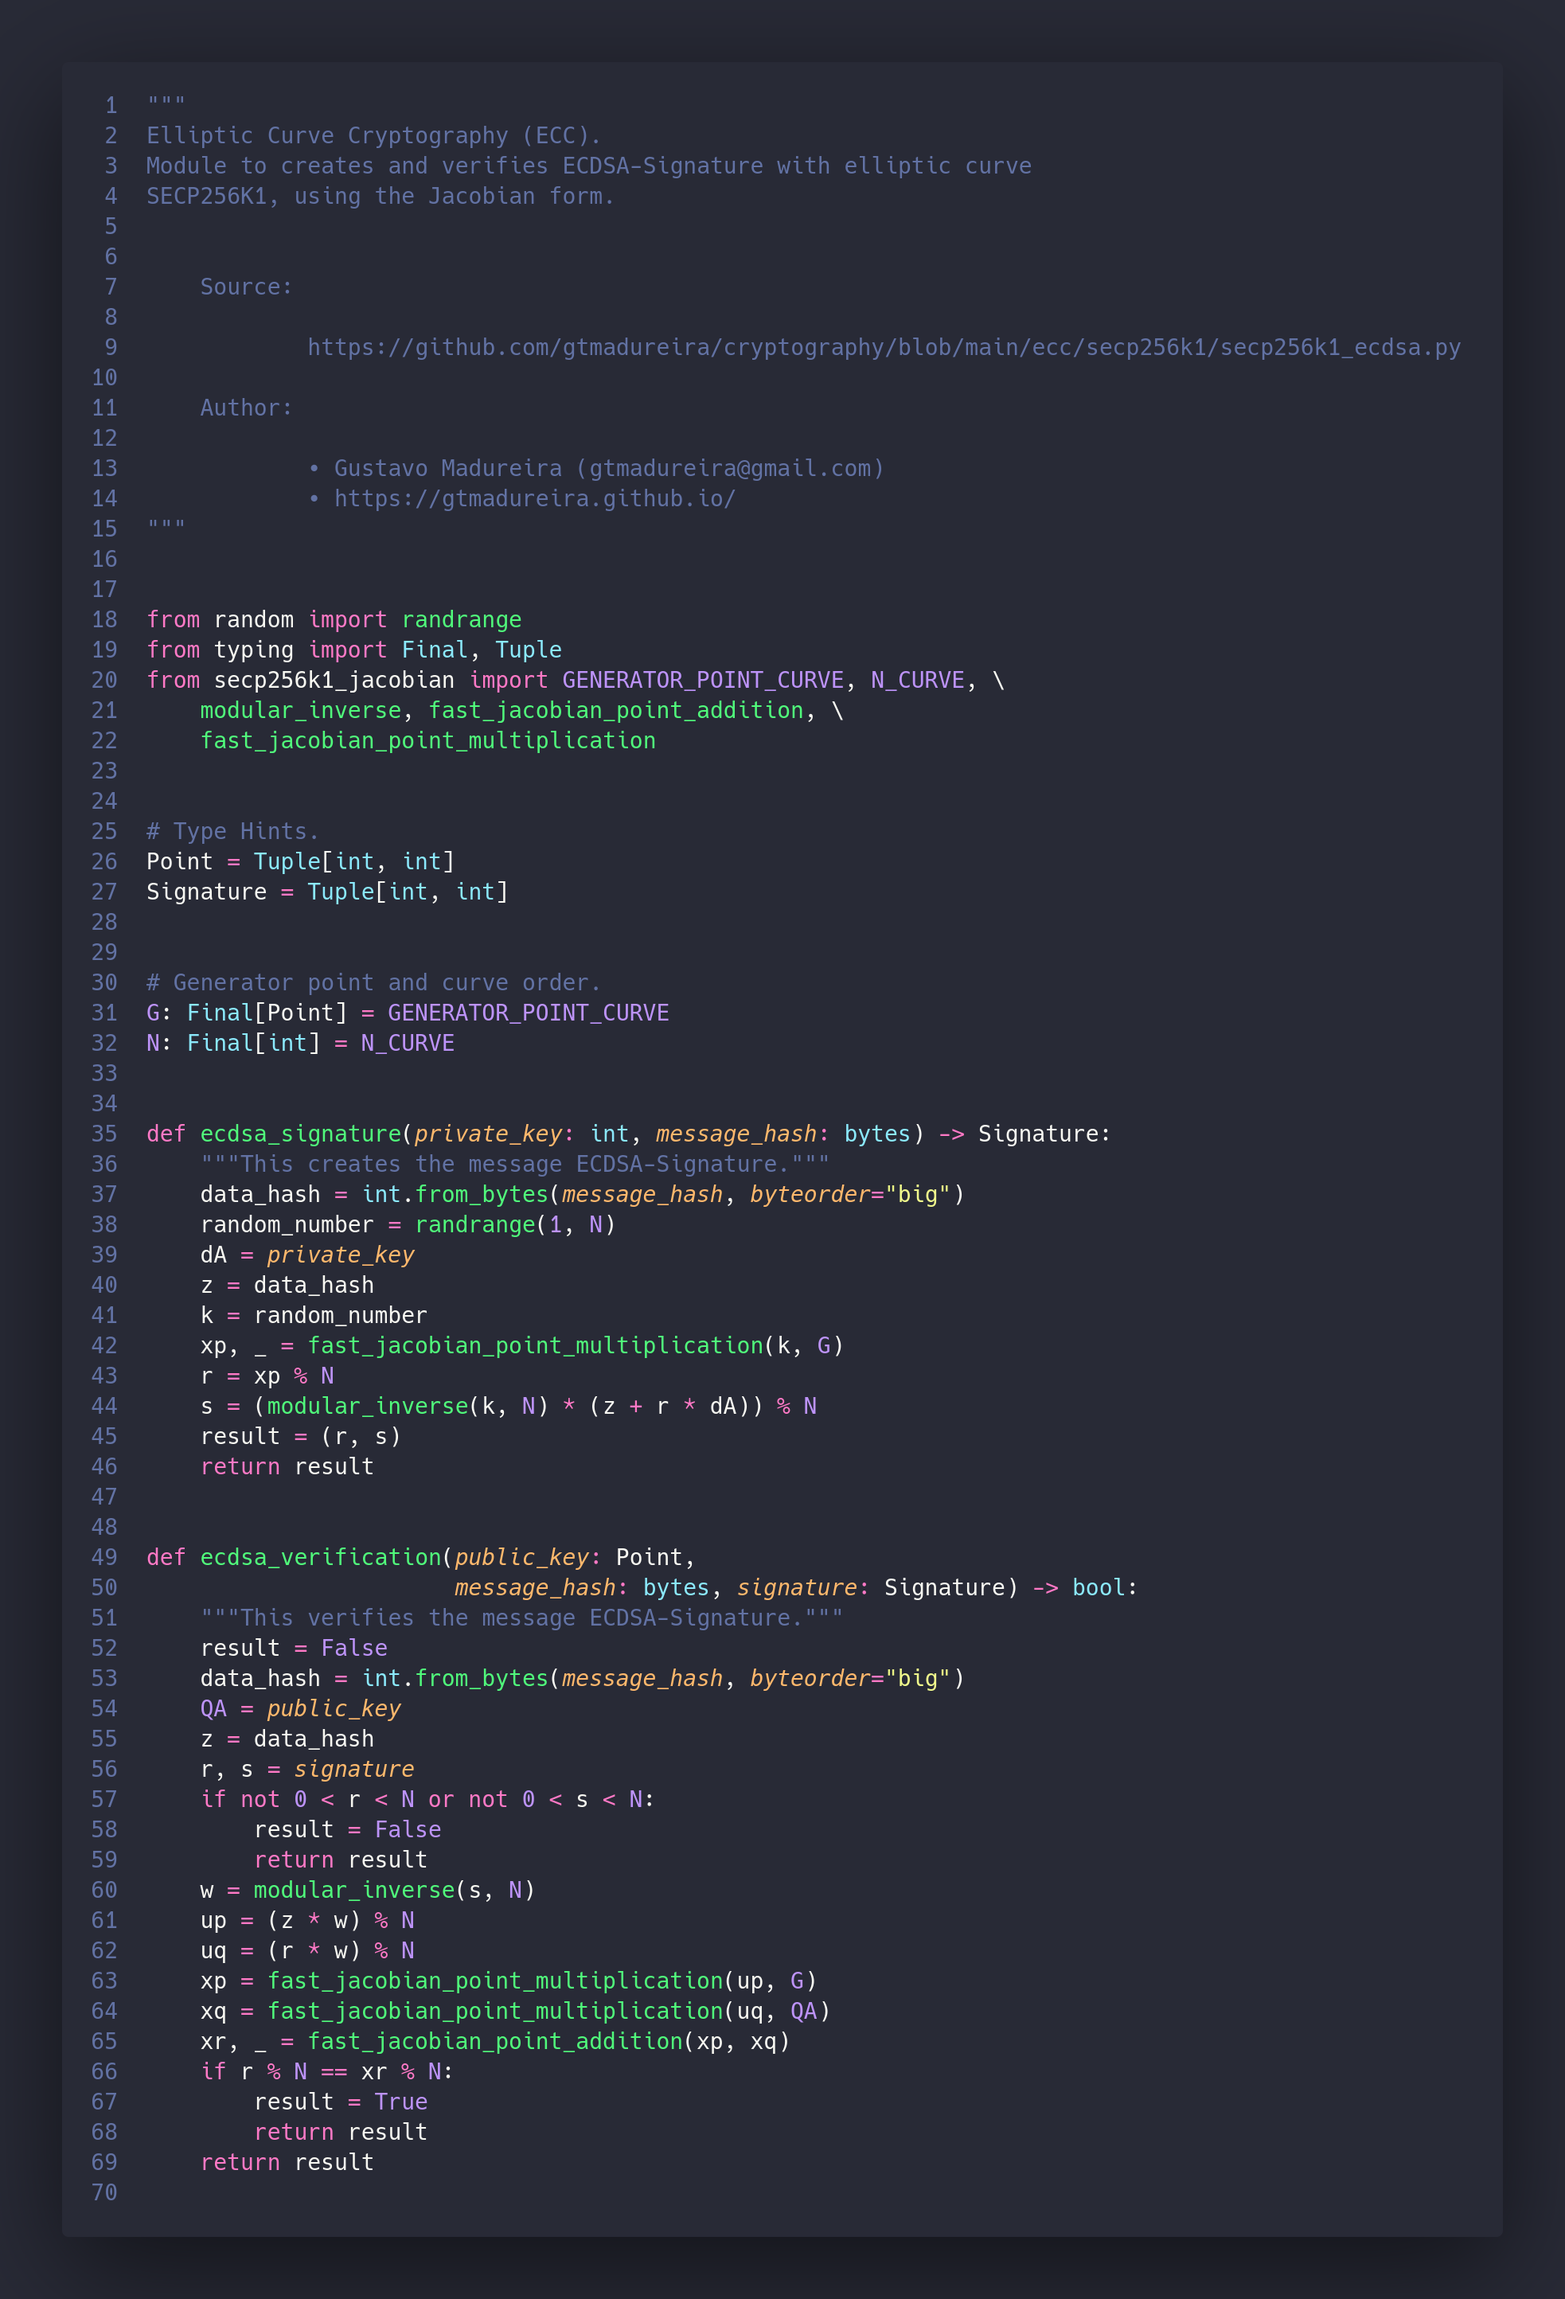
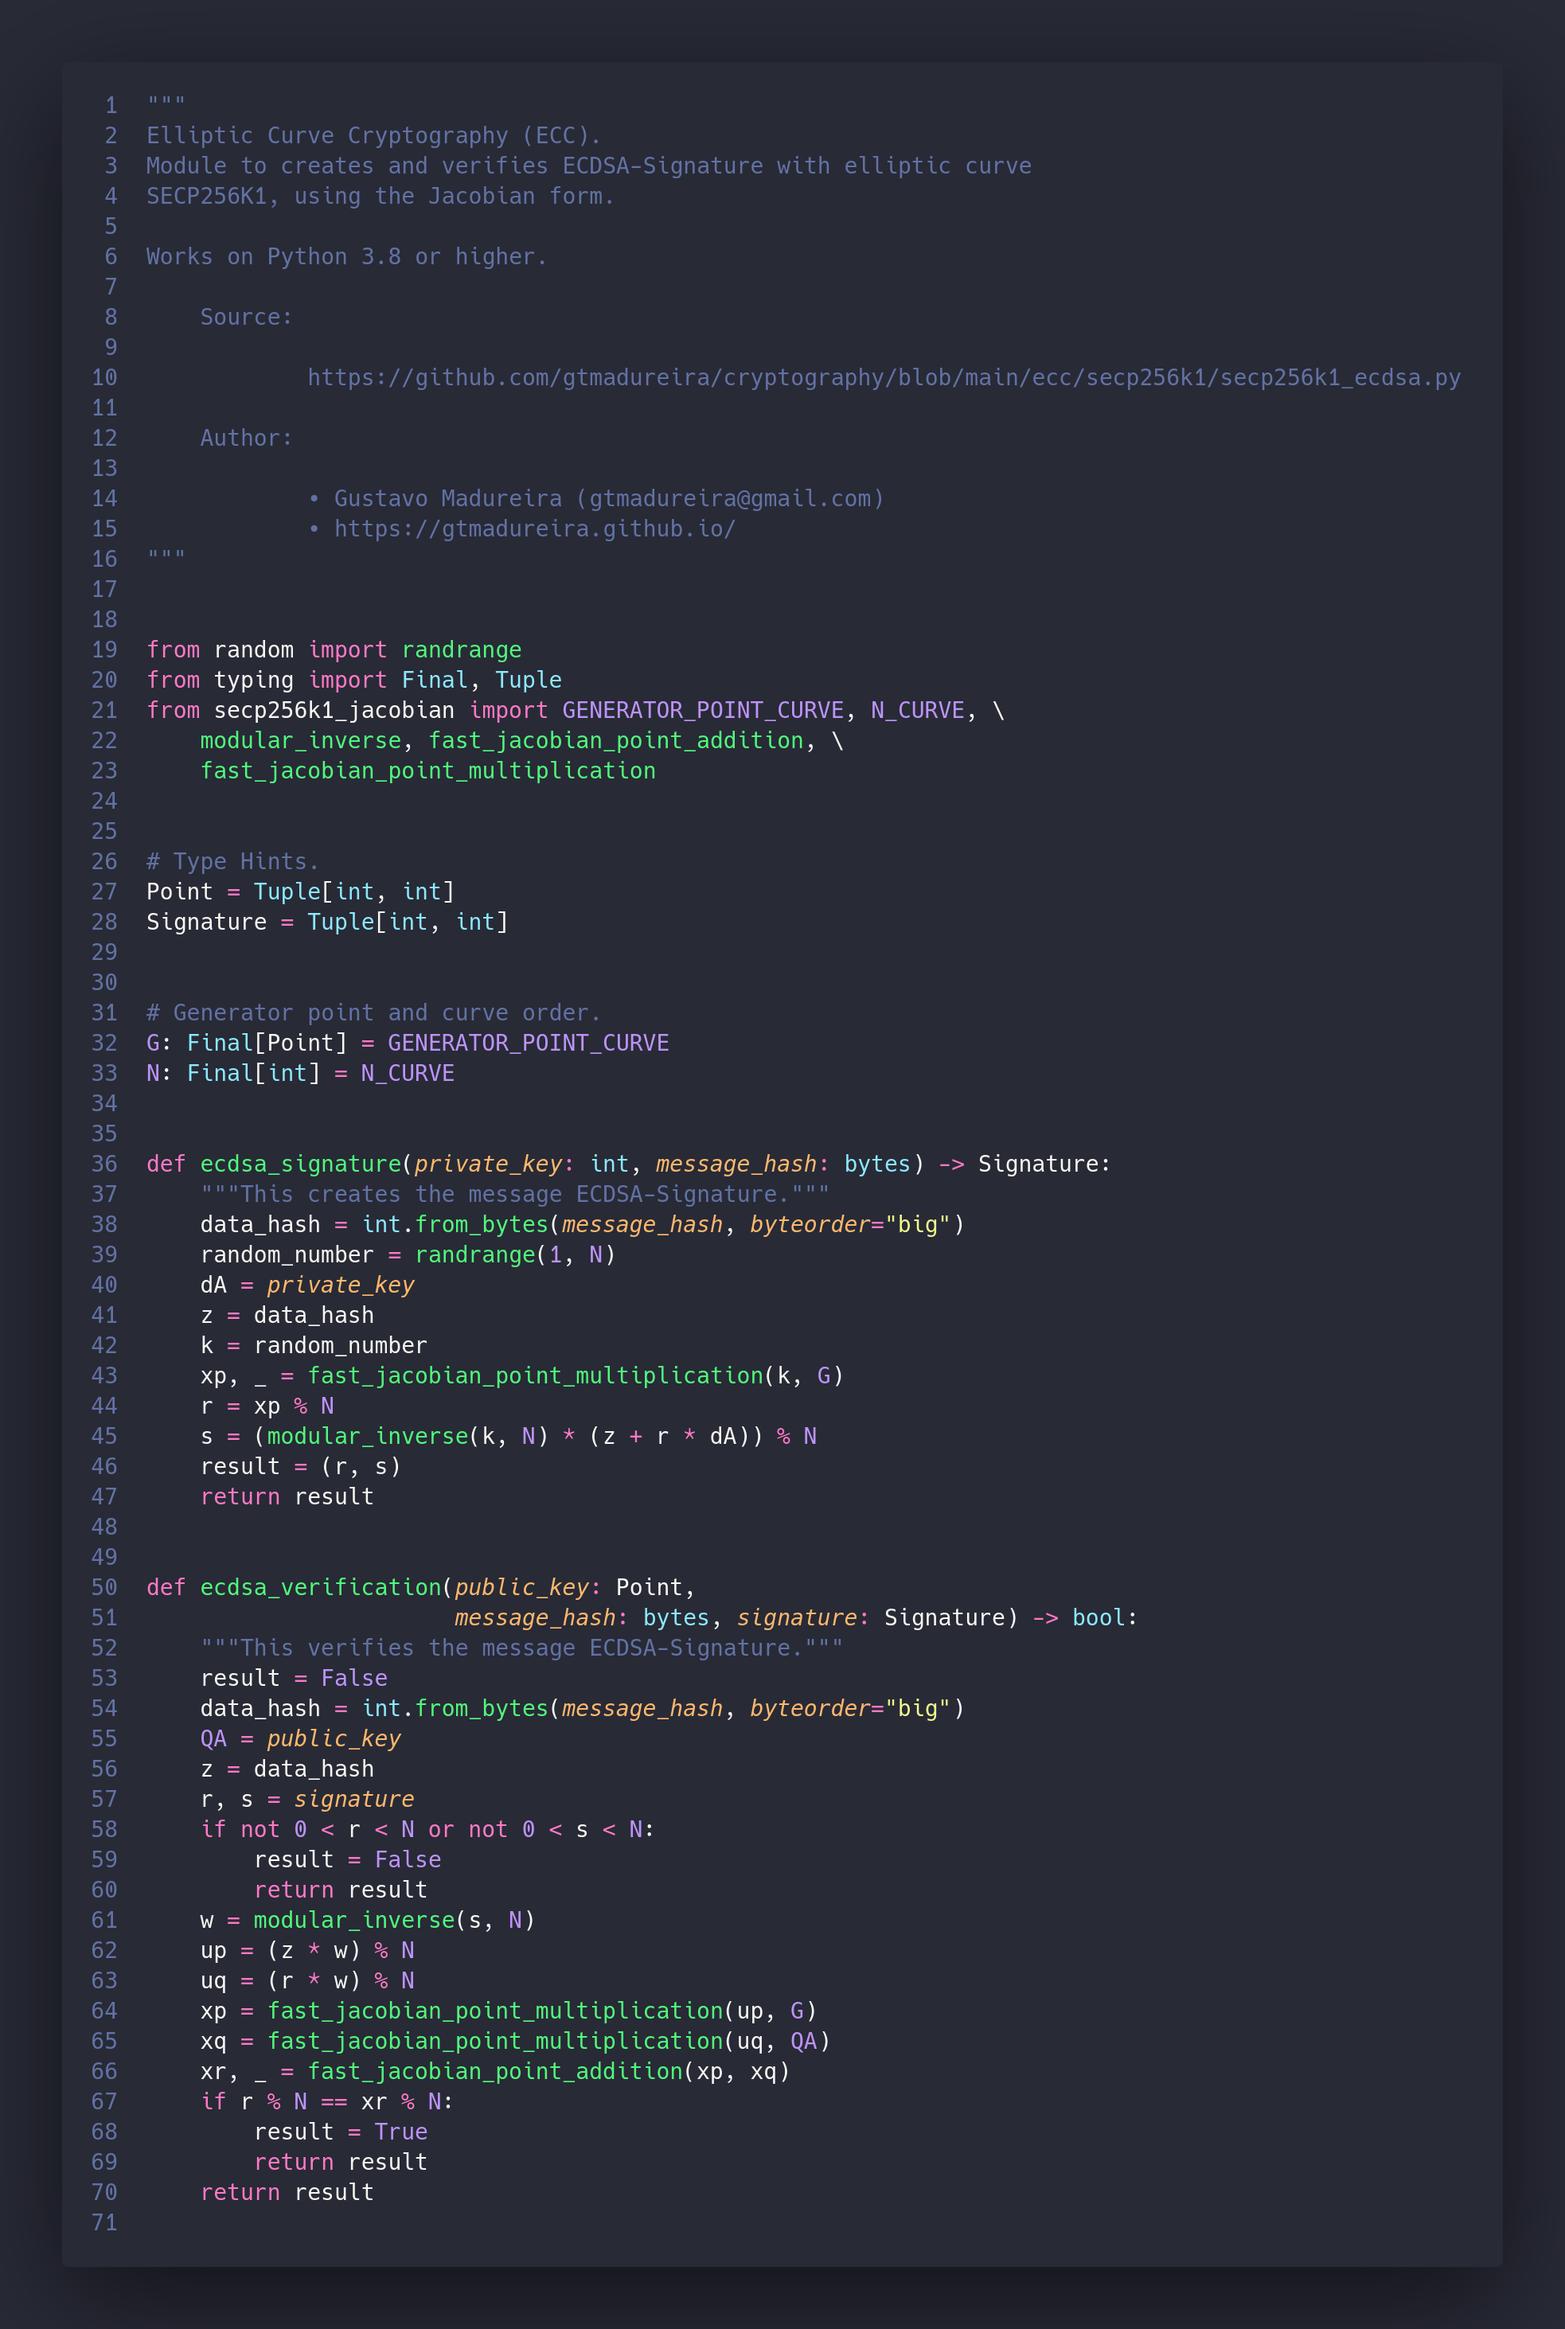
Elliptic Curve Cryptography (ECC), with curve secp256k1.

diff --git a/ecc/secp256k1/secp256k1_weierstrass.py b/ecc/secp256k1/secp256k1_weierstrass.py
@@ -26,10 +26,12 @@ the Weierstrass form.
 
 - Used to perform public key generation;
 - Used to perform digital signature generation and verification with
-  ECDSA;
+  ECDSA and Schnorr;
 - Used to perform data encryption and decryption.
 
 (Curve used in cryptocurrencies such as Bitcoin, Ethereum, etc...)
+
+Works on Python 3.8 or higher.
 
     Source:
 
@@ -80,8 +82,7 @@ H_CURVE: Final[int] = \
[1 lines of base64/hex data omitted]
 
 
-# The point that points to infinity on the elliptic curve will be
-# defined by:
+# The point that points to infinity on the elliptic curve is defined by:
 POINT_INFINITY_CURVE: Final[Point] = (0, 0)
 
 

diff --git a/ecc/secp256k1/secp256k1_jacobian.py b/ecc/secp256k1/secp256k1_jacobian.py
@@ -26,10 +26,12 @@ the Jacobian form.
 
 - Used to perform public key generation;
 - Used to perform digital signature generation and verification with
-  ECDSA;
+  ECDSA and Schnorr;
 - Used to perform data encryption and decryption.
 
 (Curve used in cryptocurrencies such as Bitcoin, Ethereum, etc...)
+
+Works on Python 3.8 or higher.
 
     Source:
 
@@ -81,8 +83,7 @@ H_CURVE: Final[int] = \
[1 lines of base64/hex data omitted]
 
 
-# The point that points to infinity on the elliptic curve will be
-# defined by:
+# The point that points to infinity on the elliptic curve is defined by:
 POINT_INFINITY_CURVE: Final[Point] = (0, 0)
 
 

diff --git a/ecc/secp256k1/secp256k1_test_generator.py b/ecc/secp256k1/secp256k1_test_generator.py
@@ -1,3 +1,6 @@
+# Works on Python 3.8 or higher.
+
+
 from typing import Final, Tuple
 from secp256k1_jacobian import fast_jacobian_point_multiplication
 from secp256k1_weierstrass import GENERATOR_POINT_CURVE, has_even_y, \

diff --git a/ecc/secp256k1/secp256k1_ecdsa.py b/ecc/secp256k1/secp256k1_ecdsa.py
@@ -24,6 +24,7 @@ Elliptic Curve Cryptography (ECC).
 Module to creates and verifies ECDSA-Signature with elliptic curve
 SECP256K1, using the Jacobian form.
 
+Works on Python 3.8 or higher.
 
     Source:
 
